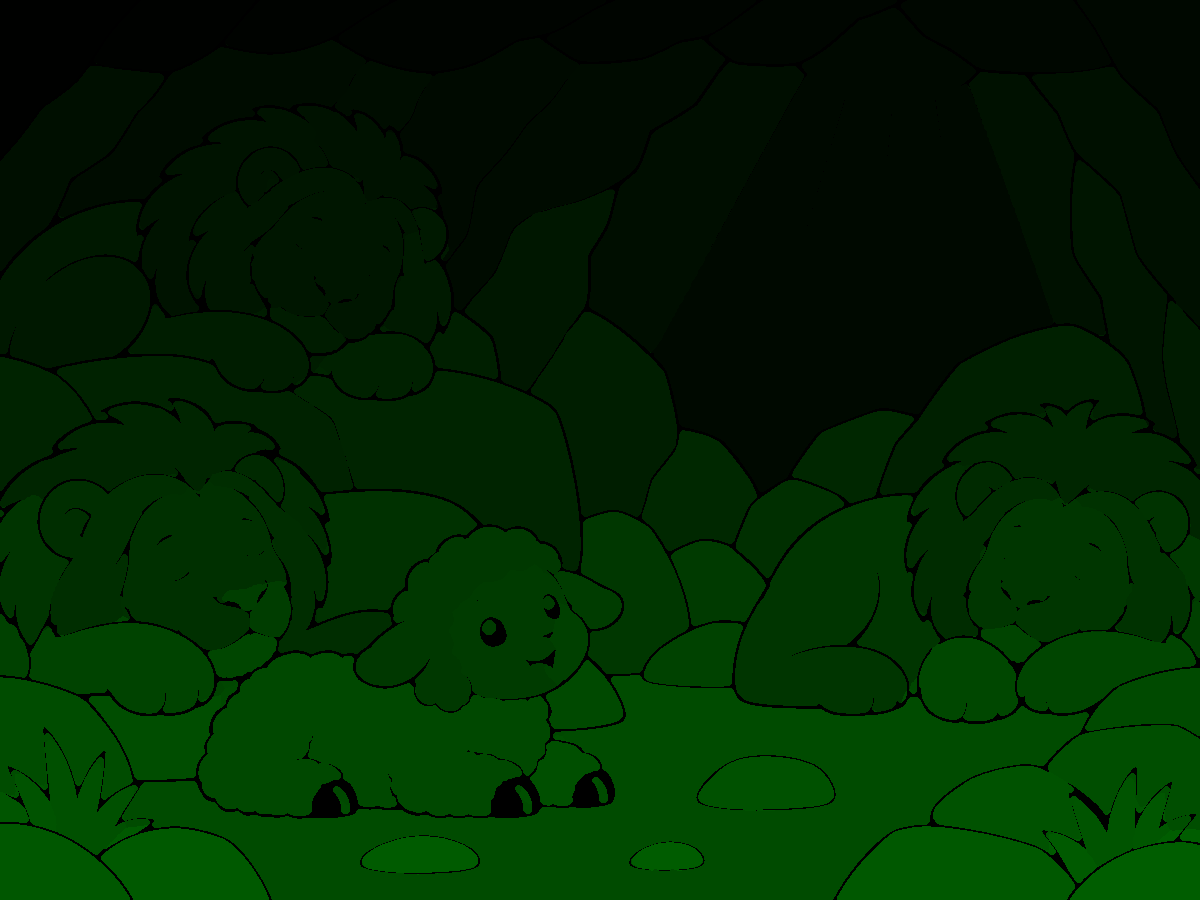
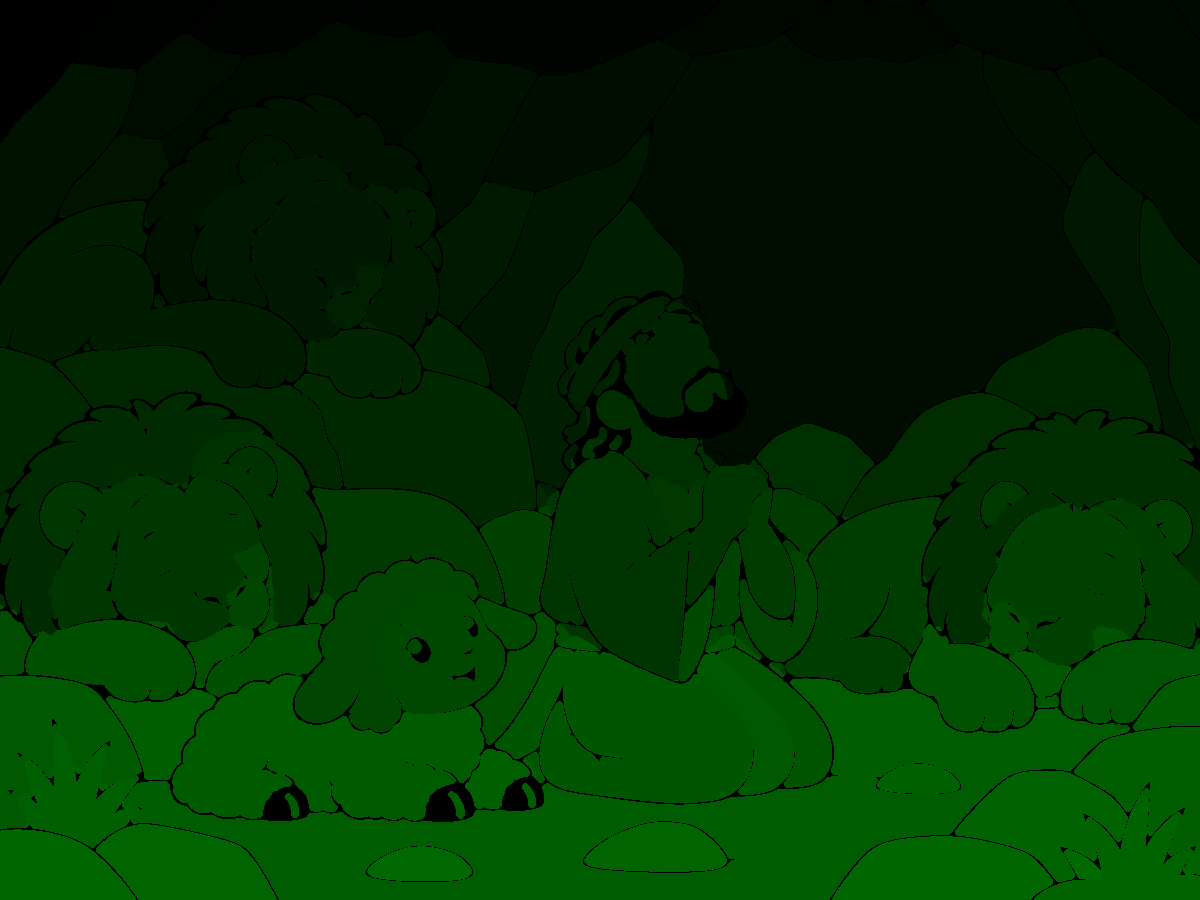
Colorir: Daniel e os leões com o Daniel; beta 23 e app build 17
Claude-Session: https://claude.ai/code/session_01ARNi3jRSMCWTmPDkK9G6dJ

diff --git a/beta/sw.js b/beta/sw.js
@@ -1,5 +1,5 @@
-/* Jogos Bíblicos — funciona sem internet. Versão: claude-v2.1-beta22 */
-const CACHE = 'jb-beta-claude-v2.1-beta22';
+/* Jogos Bíblicos — funciona sem internet. Versão: claude-v2.1-beta23 */
+const CACHE = 'jb-beta-claude-v2.1-beta23';
 const ASSETS = ['./', './Lora-Italic-Variable.woff', './Lora-Variable.woff', './app.css', './aurora.svg', './campo.svg', './cidade.svg', './confins.svg', './core.js', './dados-caca.js', './dados-cartas.js', './dados-colorir.js', './dados-cruzada.js', './dados-historia1.js', './dados-historia10.js', './dados-historia11.js', './dados-historia12.js', './dados-historia13.js', './dados-historia14.js', './dados-historia15.js', './dados-historia16.js', './dados-historia17.js', './dados-historia18.js', './dados-historia19.js', './dados-historia2.js', './dados-historia20.js', './dados-historia21.js', './dados-historia22.js', './dados-historia23.js', './dados-historia24.js', './dados-historia25.js', './dados-historia26.js', './dados-historia27.js', './dados-historia28.js', './dados-historia29.js', './dados-historia3.js', './dados-historia30.js', './dados-historia31.js', './dados-historia32.js', './dados-historia33.js', './dados-historia34.js', './dados-historia4.js', './dados-historia5.js', './dados-historia6.js', './dados-historia7.js', './dados-historia8.js', './dados-historia9.js', './dados-kids.js', './dados-ligacoes.js', './dados-memoria.js', './dados-palavra.js', './dados-quem.js', './dados-quiz.js', './dados-roda.js', './dados-tempo.js', './dados-versiculos.js', './deserto.svg', './galileia.svg', './hub.js', './icon-180.png', './icon-192.png', './icon-512.png', './index.html', './jardim.svg', './jogo-caca.js', './jogo-cartas.js', './jogo-colorir.js', './jogo-cruzada.js', './jogo-historia.js', './jogo-kids.js', './jogo-labirinto.js', './jogo-ligacoes.js', './jogo-memoria.js', './jogo-palavra.js', './jogo-quebra.js', './jogo-quem.js', './jogo-quiz.js', './jogo-roda.js', './jogo-tempo.js', './jogo-versiculo.js', './kit.js', './lumi-dica-pisca.webp', './lumi-dica.webp', './lumi-dormindo.webp', './lumi-festa.webp', './lumi-lendo-pisca.webp', './lumi-lendo.webp', './lumi-oi-pisca.webp', './lumi-oi.webp', './lumi-pensando-pisca.webp', './lumi-pensando.webp', './lumi-rosto.webp', './lumi-sarca.webp', './lumi.js', './manifest.webmanifest', './mar.svg', './monte.svg', './noite.svg', './palacio.svg', './solver.js', './tumba.jpg'];
 self.addEventListener('install', e => { e.waitUntil(caches.open(CACHE).then(c => c.addAll(ASSETS)).then(() => self.skipWaiting())); });
 self.addEventListener('activate', e => { e.waitUntil(caches.keys().then(ks => Promise.all(ks.filter(k => k !== CACHE && k.startsWith('jb-beta')).map(k => caches.delete(k)))).then(() => self.clients.claim())); });

diff --git a/beta/index.html b/beta/index.html
@@ -68,7 +68,7 @@
 <script src="dados-historia32.js"></script>
 <script src="dados-historia33.js"></script>
 <script src="dados-historia34.js"></script>
-<script>window.__BETA='22'</script><script src="core.js"></script>
+<script>window.__BETA='23'</script><script src="core.js"></script>
 <script src="lumi.js"></script>
 <script src="kit.js"></script>
 <script src="hub.js"></script>

diff --git a/app-ios/www/dados-colorir.js b/app-ios/www/dados-colorir.js
@@ -75,7 +75,7 @@ window.COLORIR_DATA = {
 "win": "Deus fechou a boca dos leões, e Daniel ficou em segurança.",
 "w": 1200,
 "h": 900,
-"r": 93
+"r": 105
 },
 {
 "n": 8,

diff --git a/beta/dados-colorir.js b/beta/dados-colorir.js
@@ -75,7 +75,7 @@ window.COLORIR_DATA = {
 "win": "Deus fechou a boca dos leões, e Daniel ficou em segurança.",
 "w": 1200,
 "h": 900,
-"r": 93
+"r": 105
 },
 {
 "n": 8,
